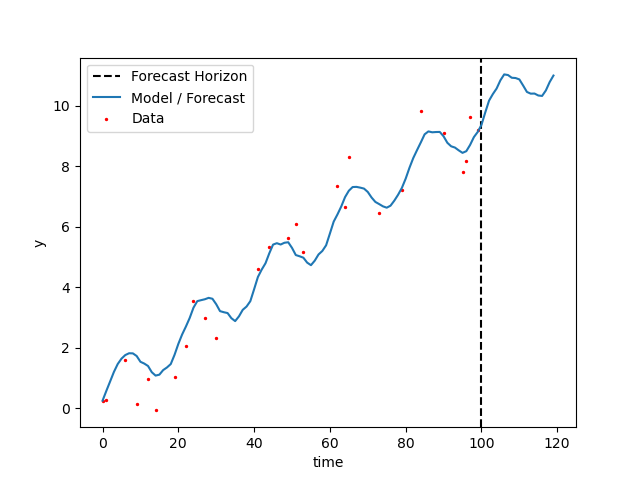
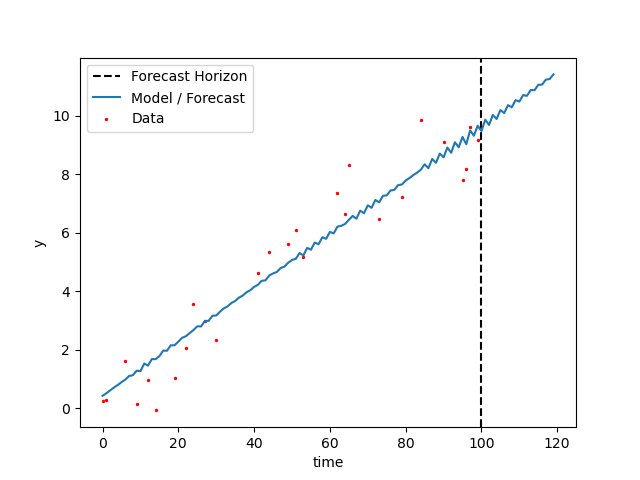
add option to not use any seasonal features

diff --git a/divinity/__init__.py b/divinity/__init__.py
@@ -411,10 +411,13 @@ class divinity:
             feature_groups=trend_seasonality_groups,
             features_compulsory=greedy_results_trend["chosen_features"],
         )
-        greedy_results_trend_seasonal = greedy_select_trend_seasonal.fit()
-        all_chosen_features = greedy_results_trend_seasonal["chosen_features"]
+        if len(seasonal_features) > 0:
+            greedy_results_trend_seasonal = greedy_select_trend_seasonal.fit()
+            self._greedy_results_trend_seasonal = greedy_results_trend_seasonal
+            all_chosen_features = greedy_results_trend_seasonal["chosen_features"]
+        else:
+            all_chosen_features = list(features.columns)
         self._chosen_features = all_chosen_features
-        self._greedy_results_trend_seasonal = greedy_results_trend_seasonal
 
     def _fit_trend_season(self, y, weight=None):
         """
